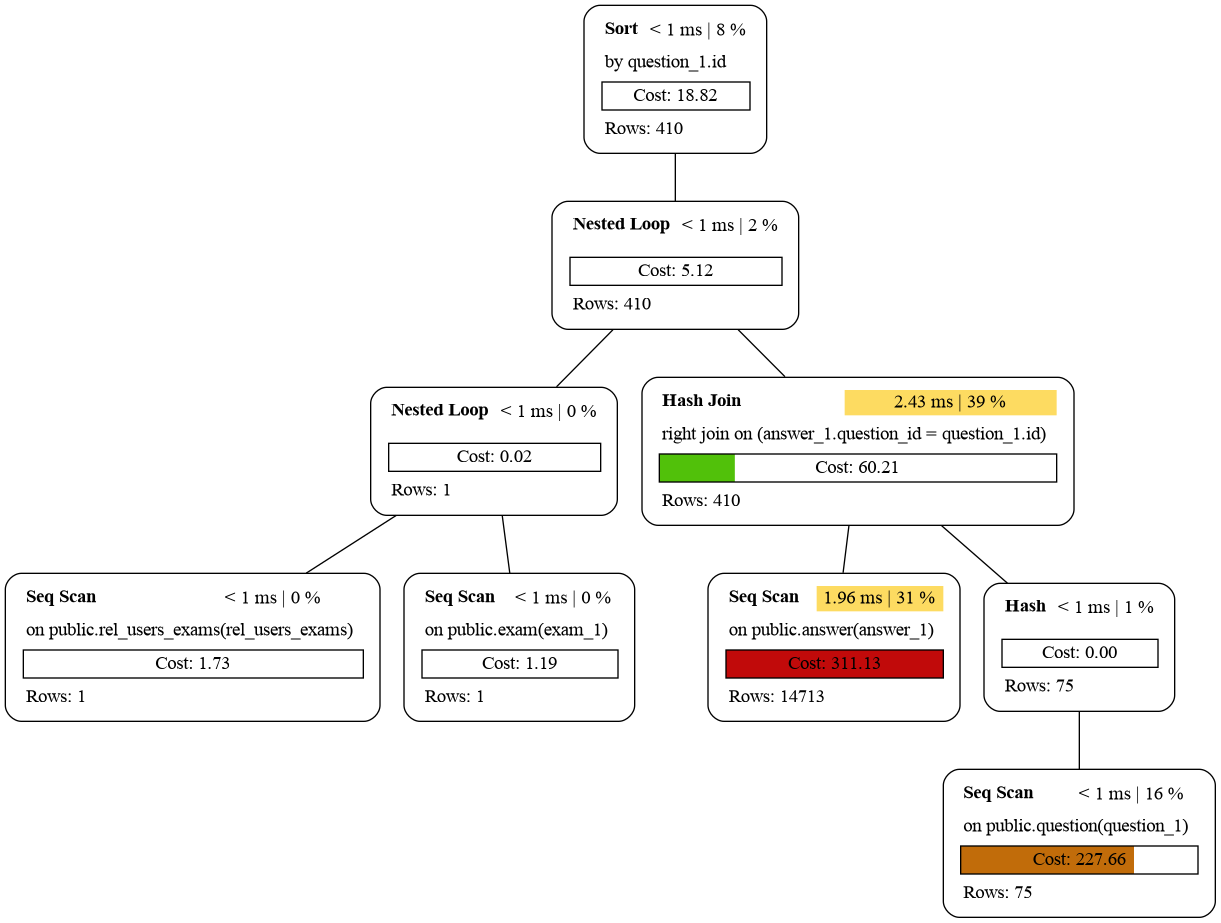
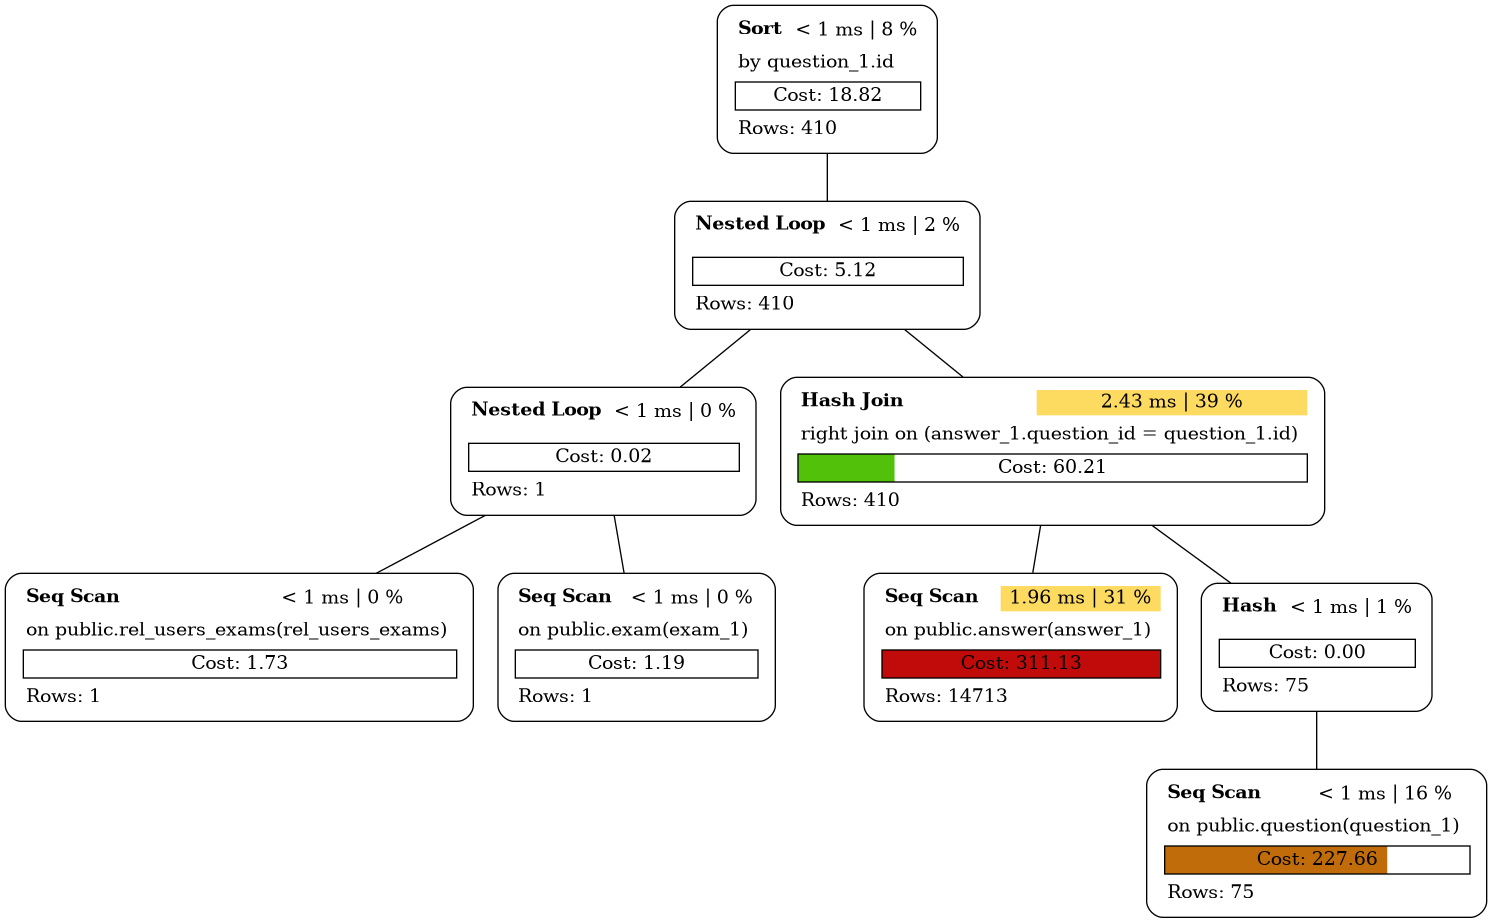
Diplay CTE subgraph

diff --git a/src/graph.rs b/src/graph.rs
@@ -2,9 +2,11 @@ pub(crate) fn dot(explain: &crate::Explain) -> String {
     Graph::from(explain).render()
 }
 
+type Su<'a> = String;
 type Nd = usize;
 type Ed<'a> = &'a (usize, usize);
 
+#[derive(Debug, Default)]
 struct Graph {
     nodes: Vec<Node>,
     edges: Vec<(usize, usize)>,
@@ -15,13 +17,7 @@ struct Graph {
 
 impl Graph {
     fn new() -> Self {
-        Self {
-            nodes: Vec::new(),
-            edges: Vec::new(),
-            current_id: 0,
-            max_cost: 0.,
-            execution_time: None,
-        }
+        Self::default()
     }
 
     fn from(explain: &crate::Explain) -> Self {
@@ -36,22 +32,26 @@ impl Graph {
         graph
     }
 
-    fn plan(&mut self, explain: &crate::Explain, root_id: Option<usize>, plan: &crate::Plan) {
+    fn plan(&mut self, explain: &crate::Explain, root: Option<&Node>, plan: &crate::Plan) {
         let id = self.current_id;
         self.current_id += 1;
 
-        let node = Node::from(plan);
+        let mut node = Node::from(id, plan);
+        if node.subplan.is_none() {
+            node.subplan = root.map(|x| x.subplan.clone()).flatten();
+        }
+
         if node.cost > self.max_cost {
             self.max_cost = node.cost;
         }
-        self.nodes.push(node);
+        self.nodes.push(node.clone());
 
-        if let Some(root_id) = root_id {
-            self.edges.push((root_id, id));
+        if let Some(root) = root {
+            self.edges.push((root.id, id));
         }
 
         for child in &plan.plans {
-            self.plan(explain, Some(id), child);
+            self.plan(explain, Some(&node), child);
         }
     }
 
@@ -134,7 +134,9 @@ impl Graph {
     }
 }
 
+#[derive(Clone, Debug)]
 struct Node {
+    id: usize,
     cost: f32,
     executed: bool,
     info: String,
@@ -142,11 +144,13 @@ struct Node {
     rows: u32,
     time: Option<f32>,
     ty: String,
+    subplan: Option<String>,
 }
 
 impl Node {
-    fn from(plan: &crate::Plan) -> Self {
+    fn from(id: usize, plan: &crate::Plan) -> Self {
         Self {
+            id,
             cost: Self::cost(plan),
             executed: plan.actual_loops != Some(0),
             info: Self::info(plan),
@@ -154,6 +158,7 @@ impl Node {
             rows: plan.rows,
             time: Self::time(plan),
             ty: plan.node.to_string(),
+            subplan: plan.subplan.clone(),
         }
     }
 
@@ -219,9 +224,27 @@ impl Node {
     }
 }
 
-impl<'a> dot::Labeller<'a, Nd, Ed<'a>> for Graph {
+impl<'a> dot::Labeller<'a, Nd, Ed<'a>, Su<'a>> for Graph {
     fn graph_id(&'a self) -> dot::Id<'a> {
         dot::Id::new("explain").unwrap()
+    }
+
+    fn subgraph_id(&'a self, s: &Su<'a>) -> Option<dot::Id<'a>> {
+        dot::Id::new(format!("cluster_{}", s.trim_start_matches("CTE "))).ok()
+    }
+
+    fn subgraph_label(&'a self, s: &Su<'a>) -> dot::LabelText<'a> {
+        let label = format!("<b>{}</b>", s);
+
+        dot::LabelText::HtmlStr(label.into())
+    }
+
+    fn subgraph_style(&'a self, _: &Su<'a>) -> dot::Style {
+        dot::Style::Filled
+    }
+
+    fn subgraph_color(&'a self, _: &Su<'a>) -> Option<dot::LabelText<'a>> {
+        Some(dot::LabelText::LabelStr("lightgrey".into()))
     }
 
     fn node_id(&'a self, n: &Nd) -> dot::Id<'a> {
@@ -322,7 +345,28 @@ impl<'a> dot::Labeller<'a, Nd, Ed<'a>> for Graph {
     }
 }
 
-impl<'a> dot::GraphWalk<'a, Nd, Ed<'a>> for Graph {
+impl<'a> dot::GraphWalk<'a, Nd, Ed<'a>, Su<'a>> for Graph {
+    fn subgraphs(&'a self) -> dot::Subgraphs<'a, Su<'a>> {
+        let mut s: Vec<String> = self
+            .nodes
+            .iter()
+            .filter_map(|n| n.subplan.clone())
+            .collect();
+
+        s.dedup();
+
+        s.into()
+    }
+
+    fn subgraph_nodes(&'a self, s: &Su<'a>) -> dot::Nodes<'a, Nd> {
+        self.nodes
+            .iter()
+            .enumerate()
+            .filter(|(_, n)| n.subplan == Some(s.to_string()))
+            .map(|(k, _)| k)
+            .collect()
+    }
+
     fn nodes(&self) -> dot::Nodes<'a, Nd> {
         (0..self.nodes.len()).collect()
     }

diff --git a/src/explain.rs b/src/explain.rs
@@ -36,6 +36,8 @@ pub(crate) struct Plan {
     pub plans: Vec<Plan>,
     #[serde(rename = "Startup Cost")]
     pub startup_cost: f32,
+    #[serde(rename = "Subplan Name")]
+    pub subplan: Option<String>,
     #[serde(rename = "Total Cost")]
     pub total_cost: f32,
     #[serde(rename = "Workers", default)]
@@ -61,7 +63,10 @@ pub(crate) enum Node {
     BitmapHeapScan {},
     BitmapOr {},
     #[serde(rename = "CTE Scan")]
-    CteScan {},
+    CteScan {
+        #[serde(rename = "CTE Name")]
+        name: String,
+    },
     CustomScan {},
     #[serde(rename = "Foreign Scan")]
     ForeignScan {},
